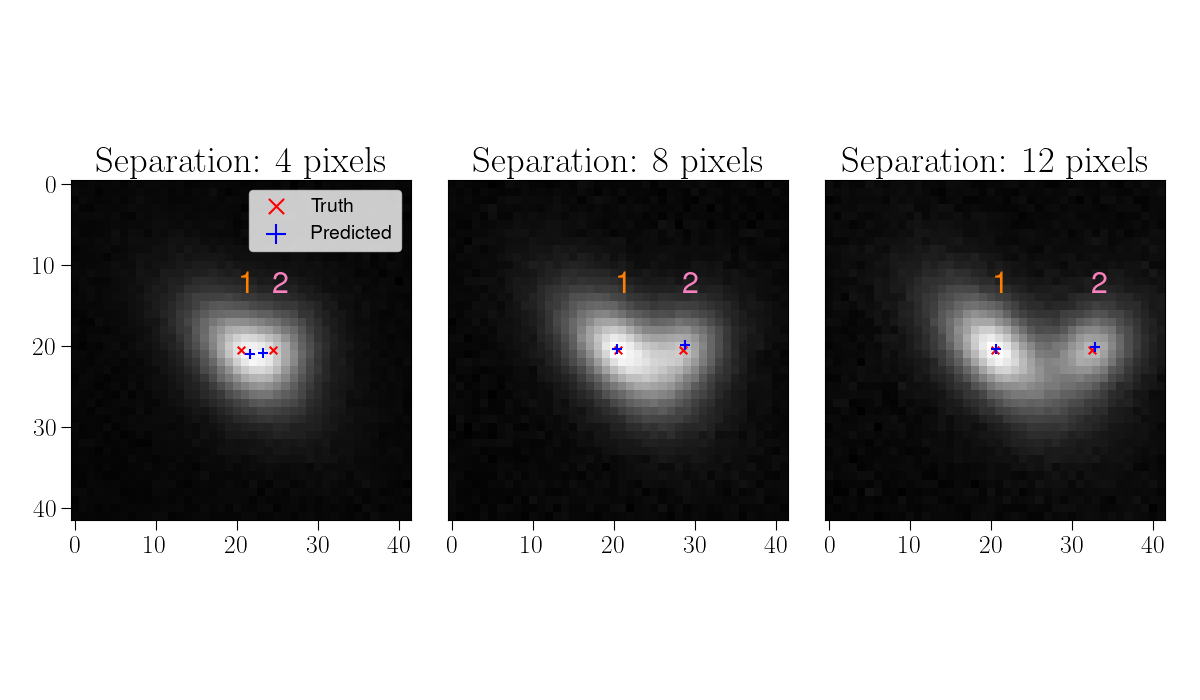
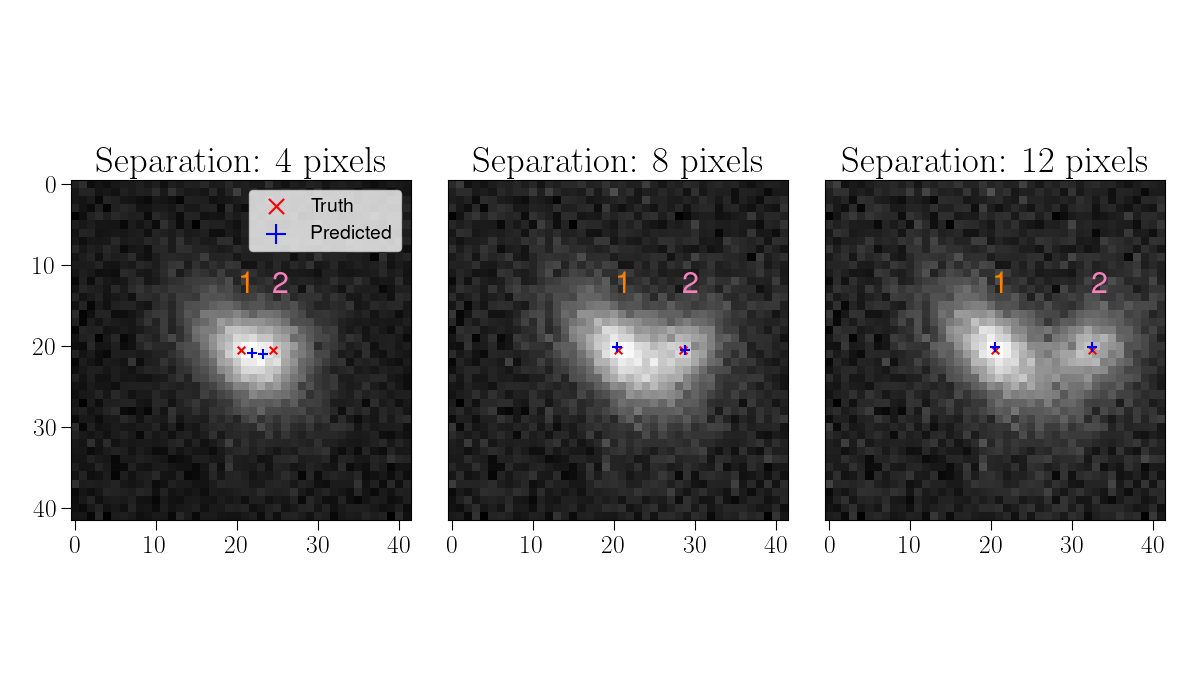
new toy results

Changed region(s): [[0.37, 0.24, 0.9867, 0.75], [0.0617, 0.24, 0.3392, 0.75], [0.2158, 0.42, 0.2467, 0.45]]

diff --git a/experiment/scripts_figures/toy_figures.py b/experiment/scripts_figures/toy_figures.py
@@ -6,7 +6,6 @@ from matplotlib.figure import Figure
 from torch import Tensor
 
 from bliss.catalog import FullCatalog, TileCatalog
-from bliss.datasets.background import add_noise_and_background
 from bliss.datasets.generate_blends import render_full_catalog
 from bliss.datasets.lsst import (
     convert_flux_to_mag,
@@ -86,13 +85,13 @@ class ToySeparationFigure(BlissFigure):
         )
         assert len(colnames) == 10
         n_sources = 2
-        flux1, flux2 = 5e6, 2.5e6
+        flux1, flux2 = 1e6, 5e5
         mag1, mag2 = convert_flux_to_mag(torch.tensor([flux1, flux2]))
         mag1, mag2 = mag1.item(), mag2.item()
-        gparam1 = [0, 1.0, 0, 0, 1.5, 0, 0.7, np.pi / 4, mag1, flux1]
-        gparam2 = [0, 1.0, 0, 0, 1.0, 0, 0.7, 3 * np.pi / 4, mag2, flux2]
+        gparam1 = [0, 1.0, 0, 0, 1.5, 0, 0.7, 45, 45, mag1, flux1]
+        gparam2 = [0, 1.0, 0, 0, 1.0, 0, 0.7, 135, 135, mag2, flux2]
         gparams = torch.tensor([gparam1, gparam2])
-        gparams = gparams.reshape(1, 2, 10).expand(batch_size, 2, 10)
+        gparams = gparams.reshape(1, 2, 11).expand(batch_size, 2, 11)
         print(f"INFO: Fluxes correspond to magnitudes ({mag1},{mag2})")
 
         # need plocs for later
@@ -105,6 +104,8 @@ class ToySeparationFigure(BlissFigure):
         # create full catalogs (need separately since `render_blend`` only accepts 1 batch)
         images = torch.zeros(batch_size, 1, size, size)
         background = torch.full((batch_size, 1, size, size), bg)
+        noise = torch.randn_like(images[0]).reshape(1, 1, size, size) * np.sqrt(bg)
+
         for ii in range(batch_size):
             plocs_ii = plocs[ii].reshape(1, 2, 2)
             d = {
@@ -119,7 +120,7 @@ class ToySeparationFigure(BlissFigure):
             full_cat = FullCatalog(slen, slen, d)
             image, _, _ = render_full_catalog(full_cat, psf, slen, bp)
 
-            images[ii] = add_noise_and_background(image, background[ii])
+            images[ii] = image + noise + background[ii]
 
         # predictions from encoder
         tile_est = encoder.variational_mode(images, background)
@@ -259,7 +260,7 @@ class ToySeparationFigure(BlissFigure):
         seps = data["seps"]
         tplocs: np.ndarray = data["truth"]["plocs"]
         images_all, recon_all, res_all = data["images"], data["recon"], data["resid"]
-        trim = 20
+        trim = 10
         indices = np.array([list(seps).index(psep) for psep in seps_to_plot]).astype(int)
 
         images = images_all[indices, 0, trim + 10 : -trim - 10, trim + 15 : -trim - 5]
